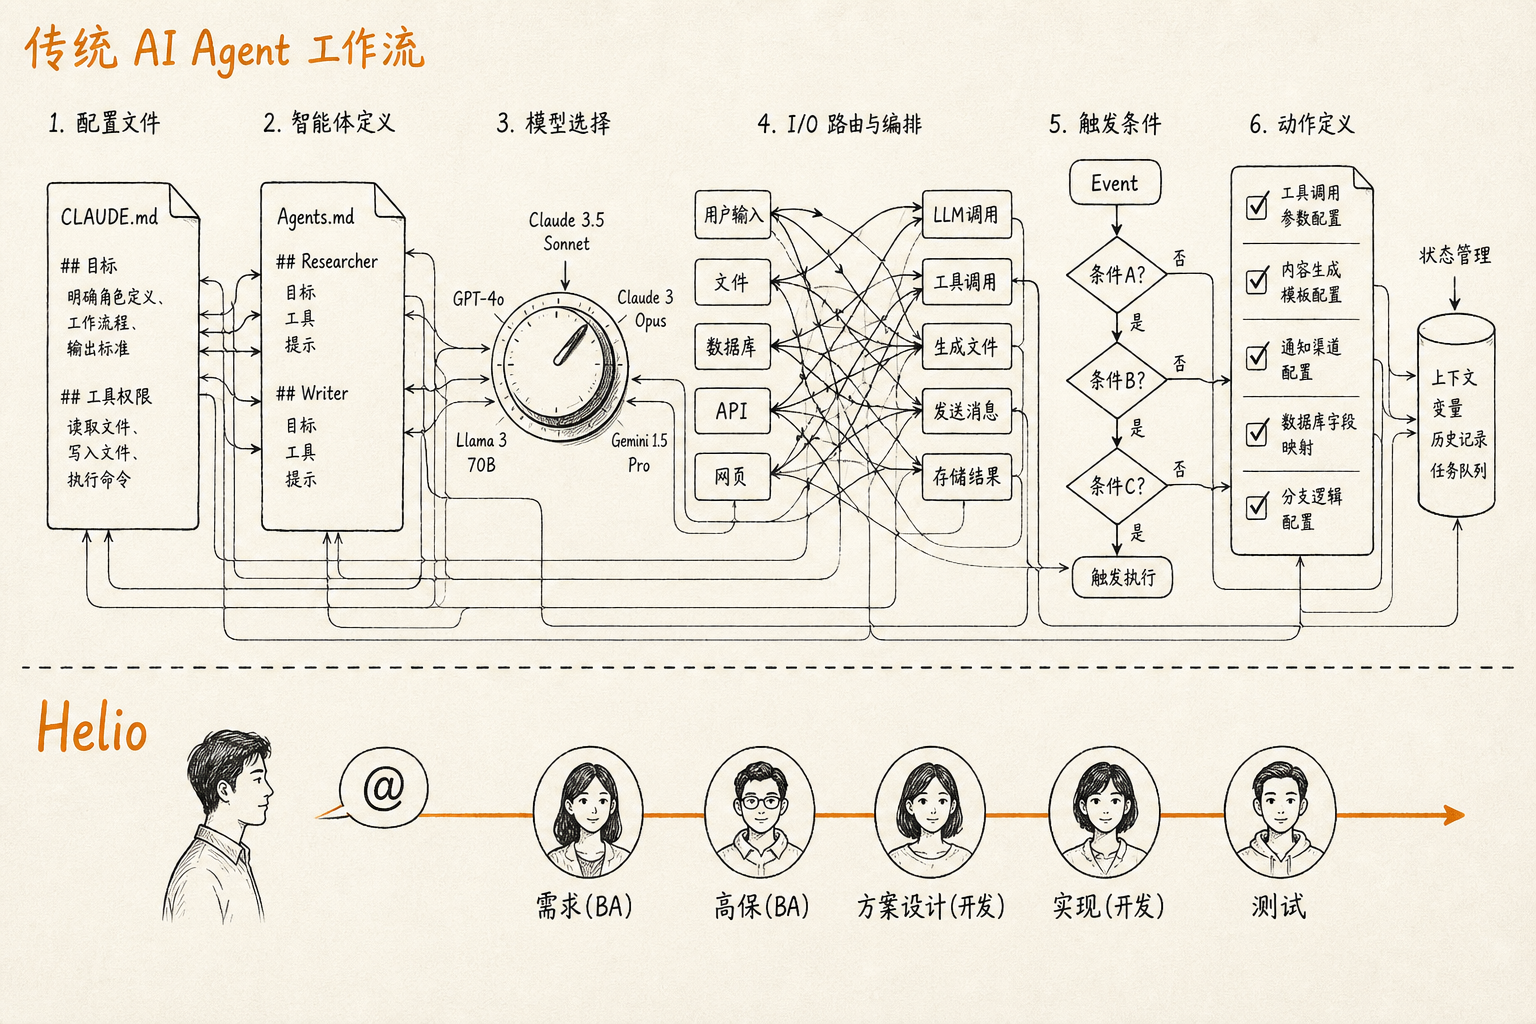
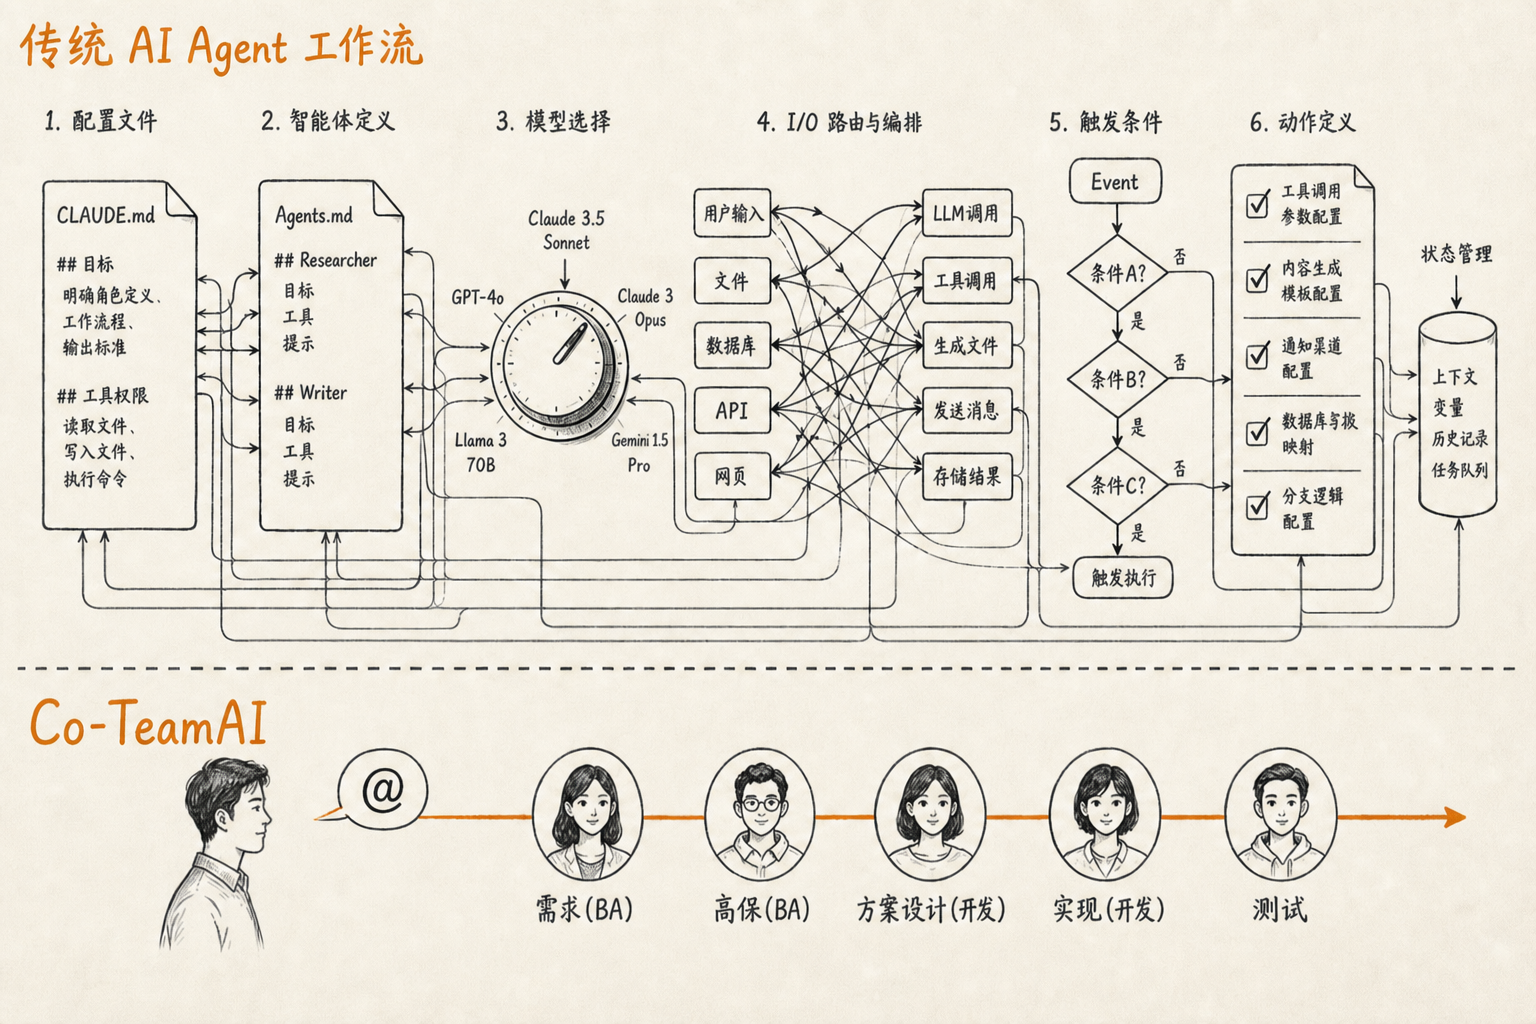
docs: point newcomers at share.html in the Co-TeamAI entry pages

diff --git a/.teamai/docs/guide.html b/.teamai/docs/guide.html
@@ -169,6 +169,7 @@
     <nav class="toc" aria-label="目录">
       <strong>本页目录</strong>
       <ol>
+        <li><a href="./share.html">对外介绍 share.html</a></li>
         <li><a href="#layout">目录一览</a></li>
         <li><a href="#coteamai">与 Co-TeamAI 怎么结合</a></li>
         <li><a href="#roles">角色链 · 谁读什么</a></li>
@@ -540,13 +541,14 @@
       <li><code>done</code> 提案只读追溯，不驱动新开发；部分交付时提案保持 in-progress。</li>
       <li>跨 FE/BE：先更新 OpenAPI，再改实现；代码验证提交时同步更新 architecture。</li>
       <li>OpenAPI 与实现冲突：以<strong>已上线行为</strong>为准，并尽快修契约。</li>
-      <li>改流转时，必须同时改 <span class="path">AGENTS.md</span>、<span class="path">process.md</span>、<span class="path">.teamai/docs/README.md</span>、本页、<span class="path">proposals/README.md</span>。</li>
+      <li>改流转时，必须同时改 <span class="path">AGENTS.md</span>、<span class="path">process.md</span>、<span class="path">.teamai/docs/README.md</span>、本页、<span class="path">share.html</span>、<span class="path">proposals/README.md</span>。</li>
       <li>工程技能包（如 mattpocock/skills）只加速过程；产出必须回写本仓 <span class="path">.teamai/docs/</span>，禁止平行 spec、ADR 树或 throwaway 高保。</li>
       <li>契约只在 <span class="path">.teamai/docs/</span>；不要符号链接，不要在仓库根再建 <code>docs/</code>。</li>
     </ul>
 
     <h2 id="links">11. 相关链接</h2>
     <ul>
+      <li><a href="./share.html">share.html</a> — 给新人的协同介绍（TeamAI 背景 + 角色 + P015 案例）</li>
       <li><a href="./process.md">process.md</a> — 规范正文</li>
       <li><a href="./README.md">.teamai/docs/README.md</a> — 文档导航</li>
       <li><a href="./proposals/README.md">proposals 索引（按状态）</a></li>

diff --git a/AGENTS.md b/AGENTS.md
@@ -6,9 +6,10 @@
 
 1. [.teamai/docs/process.md](.teamai/docs/process.md) — 完整协作与流转规范
 2. [.teamai/docs/README.md](.teamai/docs/README.md) — 文档导航
-3. [.teamai/docs/guide.html](.teamai/docs/guide.html) — 人类可读使用说明
-4. `.teamai/rules/` — 注入各 AI 工具的短规则（与 process 同一套，不另写真相）
-5. `.teamai/skills/` · `.teamai/learnings/` — 怎么干活，以及 0→1 踩坑；新任务先走 `od-rd-loop`
+3. [.teamai/docs/share.html](.teamai/docs/share.html) — 给新人的协同介绍
+4. [.teamai/docs/guide.html](.teamai/docs/guide.html) — 人类可读使用说明
+5. `.teamai/rules/` — 注入各 AI 工具的短规则（与 process 同一套，不另写真相）
+6. `.teamai/skills/` · `.teamai/learnings/` — 怎么干活，以及 0→1 踩坑；新任务先走 `od-rd-loop`
 
 ## 文档真相分层
 

diff --git a/README.md b/README.md
@@ -102,6 +102,7 @@ open-dashboard/
 | [.teamai/docs/product/README.md](.teamai/docs/product/README.md) | 产品定位、用户、模块与边界 |
 | [.teamai/docs/product/requirements.md](.teamai/docs/product/requirements.md) | **已交付需求基线**（演进起点） |
 | [.teamai/docs/product/roadmap/](.teamai/docs/product/roadmap/) | 进度（进行中 / 已完成 / 计划中） |
+| [.teamai/docs/share.html](.teamai/docs/share.html) | 给新人：TeamAI 背景、本仓规范、角色怎么用、P015 案例 |
 | [.teamai/docs/guide.html](.teamai/docs/guide.html) | 规划 / BA / 开发 / 测试 / AI 怎么读、怎么迭代 |
 | [.teamai/docs/design/architecture.html](.teamai/docs/design/architecture.html) | 4A 现行架构（业务 / 应用 / 数据 / 技术） |
 | [.teamai/docs/design/openapi.yaml](.teamai/docs/design/openapi.yaml) | REST / OpenAPI 硬契约 |

diff --git a/.teamai/docs/README.md b/.teamai/docs/README.md
@@ -65,5 +65,5 @@ domain: technical
 5. Pxxx 目录不搬家；状态看文首，进度看 `roadmap/<状态>/README.md`。
 6. `.teamai/docs/design/` 只留现行 4A HTML、OpenAPI 与检索用 `architecture.md`；未实现方案留在提案 `design/`；未验收能力不进 `requirements.md`。
 7. Commit / PR 标题带 Pxxx；跨端契约与实现同 PR；架构变化与代码同 commit。
-8. 改流转时同步：`AGENTS.md`、`process.md`、本文、`guide.html`、`proposals/README.md`。
+8. 改流转时同步：`AGENTS.md`、`process.md`、本文、`guide.html`、`share.html`、`proposals/README.md`。
 9. Harness 改 `.teamai/rules|skills|culture`；会话踩坑写入 `.teamai/learnings/`（YAML frontmatter）；不要在仓库根再建 `docs/`。

diff --git a/.teamai/docs/process.md b/.teamai/docs/process.md
@@ -6,7 +6,7 @@ domain: technical
 
 # 协作规范（process）
 
-所有人（含 AI）按本文推进需求。使用说明（HTML）：[guide.html](./guide.html)。对外品牌 **Co-TeamAI**；目录与命令仍是 `.teamai/` / `teamai`。
+所有人（含 AI）按本文推进需求。使用说明（HTML）：[guide.html](./guide.html)。对外介绍：[share.html](./share.html)。对外品牌 **Co-TeamAI**；目录与命令仍是 `.teamai/` / `teamai`。
 
 ## 目录角色
 
